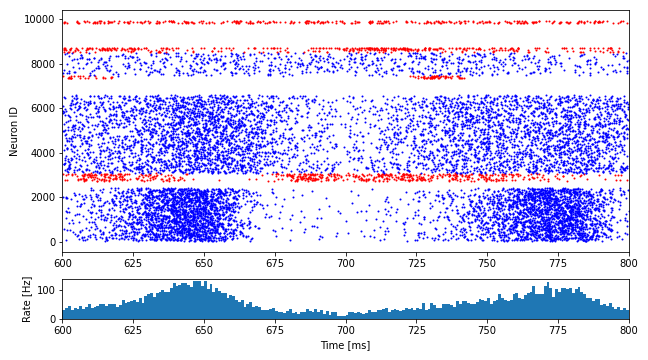
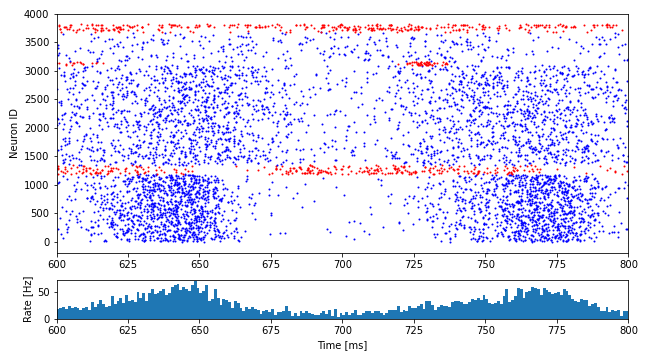
data fix to be implemented tomorrow

diff --git a/simulation/functions.py b/simulation/functions.py
@@ -10,14 +10,13 @@ import random
 class Network:
     def __init__(self, resolution, rec_start, rec_stop):
         self.__populations = []
-        self.__devices = []
+        self.__multimeter = []
+        self.__spike_recorder = []
         self.__labels = []
+        self.__nrec = []
         self.rec_start = rec_start
         self.rec_stop = rec_stop
         self.resolution = resolution
-        self.spike_recorder = nest.Create("spike_recorder")
-        self.spike_recorder.start = self.rec_start
-        self.spike_recorder.stop = self.rec_stop
 
     def addpop(self, neuron_type, num_neurons, neuron_params, neuron_positions, label, 
                record_from_pop=True, nrec=0.):
@@ -53,20 +52,31 @@ class Network:
         if not isinstance(neuron_params, dict):
             neuron_params = random.choices(neuron_params, k=num_neurons)
         
-        print(nrec)
+        self.__nrec.append(nrec)
         
         ## Create the neuronal population
         newpop = nest.Create(neuron_type, num_neurons, neuron_params, positions=neuron_positions)
         ## If record_from_pop is true, also connect the spike recorder and multimeter to it
         if record_from_pop:
-            nest.Connect(newpop[:nrec], self.spike_recorder)
+            ## Create recording devices
+            sr = nest.Create("spike_recorder")
             mm = nest.Create("multimeter",
                              params={"interval": self.resolution,
                              "record_from": ["V_m", "I_syn"]})
+            
+            ## Set start/stop times
+            sr.start = self.rec_start
+            sr.stop = self.rec_stop
             mm.start = self.rec_start
             mm.stop = self.rec_stop
+            
+            ## Connect devices to the new population
+            nest.Connect(newpop[:nrec], sr)
             nest.Connect(mm, newpop[:nrec])
-            self.__devices.append(mm)
+            
+            ## append to list for data extraction later
+            self.__multimeter.append(mm)
+            self.__spike_recorder.append(sr)
         ## Add it to internal list of populations
         self.__populations.append(newpop)
         self.__labels.append(label)
@@ -209,33 +219,45 @@ class Network:
         """
         
         ## Get the data f rom the spike recorder
-        self.spike_times = nest.GetStatus(self.spike_recorder)
+        #self.spike_times = nest.GetStatus(self.spike_recorder)
         
         ## Data storage:
         self.data = []
         
         ## Divide spike times to populations
-        for i in range(len(self.__populations)):
+        for i in range(len(self.__spike_recorder)):
             
-            self.IDs = list(self.__populations[i].get(['global_id']).values())[0]
-            self.min = min(self.IDs)
-            self.max = max(self.IDs)
+            self.spike_times = nest.GetStatus(self.__spike_recorder[i])
             
-            ## Get sender IDs and times (in ms)
-            self.senders = self.spike_times[0]['events']['senders']
-            self.times = self.spike_times[0]['events']['times']
+            self.IDs = np.unique(nest.GetStatus(self.__spike_recorder[i])[0]["events"]["senders"])
+            
+            ## Create a list containing empty lists with size equal to nrec of that population.
+            ## For each of those lists get the range of IDs from the population
+            ## The IDs are then lowest ID of the population + nrec
+            ## Fill in the data for the corresponding senders == IDs
+            ## => Profit
             
             times = []
-            for n in range(self.min, self.max+1):
-                times.append(self.times[self.senders == n])
+            if not self.IDs.size == 0:
+                self.min = min(self.IDs)
+                self.max = max(self.IDs)
+                print(self.min, self.max)
+                
+                ## Get sender IDs and times (in ms)
+                self.senders = self.spike_times[0]['events']['senders']
+                self.times = self.spike_times[0]['events']['times']
+                
+                
+                for n in range(self.min, self.max+1):
+                    times.append(self.times[self.senders == n])
             
             self.data.append(times)
             
-            ################################################
-            ## Get multimeter data
-            mmlist = []
-            for d in self.__devices:
-                mmlist.append(nest.GetStatus(d)[0]["events"])
+        ################################################
+        ## Get multimeter data
+        mmlist = []
+        for d in self.__multimeter:
+            mmlist.append(nest.GetStatus(d)[0]["events"])
             
         return mmlist, self.data
 

diff --git a/simulation/run.py b/simulation/run.py
@@ -162,7 +162,7 @@ num_parameters = 14
 
 Nscale = 0.05
 Kscale = 1
-Rscale = Nscale
+Rscale = Nscale * 0.5
 
 # Overview
 layers = ['L1', 'L23', 'L4', 'L5', 'L6']
